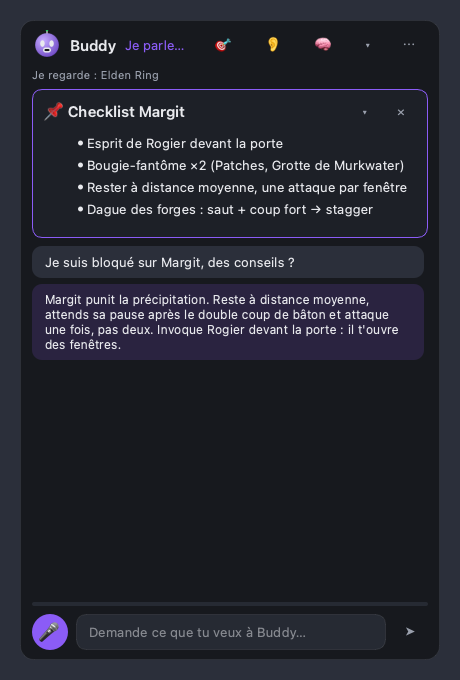
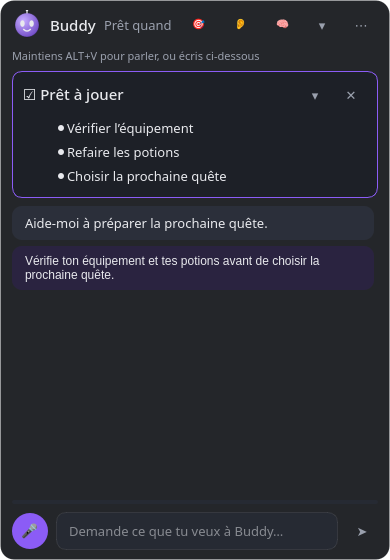
Refresh README guides and current Buddy screenshots (#10)

diff --git a/docs/make-plugin-preview.py b/docs/make-plugin-preview.py
@@ -58,3 +58,28 @@ p.drawText(75, 745, "Demo interface — no game content or private conversation 
 p.end()
 frame.save(str(Path(__file__).parents[1] / "preview.png"))
 widget.close()
+
+# README screenshots use the same current UI, with demo data only.
+assets = Path(__file__).parent / "assets"
+assets.mkdir(exist_ok=True)
+for language in ("en", "fr"):
+    panel = BuddyWidget(Translator(language), "Buddy", "ALT, V", 390, 560, mode="panel")
+    french = language == "fr"
+    panel.add_user("Aide-moi à préparer la prochaine quête." if french else "Help me prepare for the next quest.")
+    panel.add_bubble("Vérifie ton équipement et tes potions avant de choisir la prochaine quête." if french else "Check your equipment and potions before choosing the next quest.", "bro")
+    panel.show_pin("Prêt à jouer" if french else "Ready to play", "- Vérifier l’équipement\n- Refaire les potions\n- Choisir la prochaine quête" if french else "- Check equipment\n- Restock potions\n- Choose the next quest", "checklist")
+    panel.show()
+    app.processEvents()
+    panel.grab().save(str(assets / f"widget-{language}.png"))
+    panel.close()
+    orb = BuddyWidget(Translator(language), "Buddy", "ALT, V", 390, 560, mode="orb", compact_orb=False)
+    orb.set_caption("Vérifie tes potions avant de repartir." if french else "Check your potions before heading out.", fade=False)
+    orb.show()
+    app.processEvents()
+    orb.grab().save(str(assets / f"orb-{language}.png"))
+    orb.close()
+compact = BuddyWidget(Translator("en"), "Buddy", "ALT, V", 390, 560, mode="orb", compact_orb=True)
+compact.show()
+app.processEvents()
+compact.grab().save(str(assets / "compact-orb.png"))
+compact.close()

diff --git a/README.fr.md b/README.fr.md
@@ -5,10 +5,10 @@ Reste dans ton jeu, parle à Buddy. Un compagnon IA vocal pour Wayland, Hyprland
 
 <p align="center"><a href="README.md">🇬🇧 English version</a></p>
 
-<p align="center"><img src="docs/assets/orb-fr.png" alt="Widget GameBuddy" width="420"></p>
+<p align="center"><img src="preview.png" alt="GameBuddy : voix, choix de l’IA et checklist épinglée (aperçu en anglais)" width="960"></p>
 
 GameBuddy, c'est **Buddy** : un assistant IA qui vit dans un petit widget à côté de ton jeu.
-Tu maintiens une touche et tu parles ; Buddy voit la fenêtre de jeu que tu as choisie,
+Tu maintiens une touche pour parler, ou tu choisis un appui pour démarrer et un second pour arrêter ; Buddy voit la fenêtre de jeu que tu as choisie,
 cherche sur le web, répond dans ta langue, garde tes builds et checklists épinglés à
 l'écran, et se souvient des détails utiles d'une session à l'autre. Il **conseille
 seulement** : il n'injecte jamais d'entrées, ne lit pas la mémoire du jeu et ne joue pas à ta place.
@@ -18,13 +18,17 @@ local via Ollama).
 
 ## Ce qu'on voit en jeu
 
-Par défaut, Buddy n'est qu'un **orbe** : son visage animé et ses derniers mots, rien d'autre. Il
+Buddy s’adapte à ton écran : une **petite tête animée** sur laptop, ou un **orbe avec du texte** quand la place le permet. Il
 cligne des yeux au repos, pulse quand il écoute, fait tourner des points quand il réfléchit et bouge
 la bouche quand il parle. Les clics hors de l'orbe vont au jeu. Un clic sur le visage (ou une
 checklist qu'il épingle) ouvre le panneau complet : contenu épinglé, conversation, saisie texte.
 `mode = "panel"` dans `[ui]` démarre directement avec le panneau.
 
 <p align="center"><img src="docs/assets/widget-fr.png" width="360" alt="Panneau GameBuddy avec une checklist épinglée"></p>
+
+<p align="center"><img src="docs/assets/compact-orb.png" width="64" alt="Petite tête de Buddy"> &nbsp; <img src="docs/assets/orb-fr.png" width="260" alt="Orbe de Buddy avec texte"></p>
+
+Ces captures montrent l’interface actuelle avec du texte de démonstration. La petite tête et l’orbe sont présentés à leur taille logique.
 
 ## Plugin Omarchy Quattro
 
@@ -64,6 +68,49 @@ Supprimer uniquement le plugin retire son widget de barre ; l’application et s
 services restent installés. Les paquets système ne sont pas supprimés automatiquement.
 Détails : [validation et publication du plugin](docs/OMARCHY-PLUGIN.md).
 
+## Utilisation au quotidien
+
+### Taille adaptative de Buddy
+
+Par défaut, `compact_orb = "auto"` dans `[ui]` affiche une petite tête de 64 × 64
+sur les écrans dont la surface utile ne dépasse pas 1280 pixels de large ou
+800 pixels de haut. Ces dimensions sont en pixels logiques : la mise à l’échelle
+HiDPI du bureau est donc prise en compte. Sur les écrans plus grands, l’orbe
+avec texte mesure 260 × 96. Le panneau reste limité à la surface utile et la
+présentation se réadapte lors d’un changement d’écran ou de résolution.
+
+`compact_orb = true` force la petite tête ; `false` garde l’orbe avec texte.
+L’icône de Buddy dans le systray est fournie comme icône symbolique monochrome :
+les bureaux compatibles, dont Omarchy, l’adaptent à la couleur de leur barre.
+
+### Choisir l’IA depuis le systray
+
+Clic droit sur la tête de Buddy → **IA / raisonnement** : le choix actif est
+indiqué en haut. Avec Codex, le sous-menu **Modèle** reprend le catalogue local
+du CLI (s’il est disponible), et **Raisonnement** propose les niveaux déclarés
+pour le modèle sélectionné. Les changements sont sauvegardés pour les prochains
+échanges ; le menu est désactivé pendant une réponse. **Autre IA / modèle…** ouvre
+l’onglet IA des réglages, avec fournisseur, modèle personnalisé et accès API.
+Le raisonnement est proposé pour Codex et Anthropic ; les autres adaptateurs
+n’envoient pas ce paramètre.
+
+### Micro, raccourcis et délai de réponse
+
+Dans **Réglages → General**, clique dans le champ du raccourci puis presse la
+combinaison souhaitée. **Maintenir pour parler** enregistre jusqu’au relâchement ;
+**Appuyer pour démarrer / arrêter** commence au premier appui et envoie au second.
+Le raccourci d’affichage est configurable aussi. Les fragments Hyprland générés
+et gérés par GameBuddy sont actualisés automatiquement, avec détection des
+conflits et retour en arrière si la configuration est invalide. Sur les autres
+bureaux, actualise aussi les raccourcis globaux du bureau. `gamebuddy hyprland-config`
+et `sway-config` tiennent compte du mode choisi.
+
+Le délai cumule transcription, capture, appels IA/recherche et synthèse vocale.
+Les modèles Whisper déjà téléchargés sont préchargés en arrière-plan, sans
+écouter le micro ni accéder au réseau. Dans l’onglet Voice, `tiny` réduit le coût
+CPU au prix d’une précision potentiellement moindre ; `base` reste un compromis.
+`gamebuddy status` expose les dernières durées de transcription et de réponse IA.
+
 ## Fonctionnalités
 
 - **Voix d'abord** — maintiens `Alt+V` (configurable) pour parler, ou active l'écoute mains libres. Le clavier marche aussi.
@@ -94,7 +141,7 @@ recherche web passent par une enveloppe « actions » que GameBuddy exécute. Co
 quelques secondes de latence en plus, pas de streaming, et pas d'API vocale — la voix bascule
 sur des moteurs locaux (voxtype si l'outil de dictée d'Omarchy est installé, sinon faster-whisper, pour la
 transcription ; piper ou espeak-ng pour la
-synthèse), installés par défaut par `./install.sh`. `gamebuddy doctor` indique si Codex est
+synthèse). `./install.sh` installe faster-whisper et espeak-ng ; voxtype et Piper sont optionnels. `gamebuddy doctor` indique si Codex est
 installé et connecté.
 
 ## Démarrage rapide (Arch Linux / Omarchy)
@@ -147,13 +194,17 @@ language = "auto"          # fr, en, de, es, it, pt-BR, pt-PT
 assistant_name = "Buddy"
 personality = "coach"      # coach | friendly | concise
 
+[ui]
+compact_orb = "auto"      # auto | true | false
+
 [hotkeys]
+mode = "hold"             # hold | toggle
 push_to_talk = "ALT, V"    # syntaxe des binds Hyprland
 toggle_widget = "ALT, B"
 
 [llm]
 provider = "codex"         # codex (ChatGPT Plus) | anthropic | openai | ollama | openai_compatible
-model = ""                 # défaut Codex ; ex. "claude-opus-5-5" pour anthropic
+model = ""                 # défaut du fournisseur ; choix dans le systray ou les réglages IA
 effort = "low"             # anthropic / codex : réponses rapides et peu coûteuses en jeu
 
 [speech]
@@ -162,7 +213,7 @@ tts = "espeak"             # openai | piper | espeak | none
 
 [coach]
 enabled = false
-model = ""                 # modèle économique par défaut (claude-haiku-5-5 / gpt-4o-mini)
+model = ""                 # vide : modèle par défaut du fournisseur
 ```
 
 `voxtype` réutilise la pile de dictée d'Omarchy (*Install > AI > Dictation*, ou `yay -S voxtype`) :
@@ -203,8 +254,7 @@ simples tags git publiés par GitHub Actions : pas de binaire, toujours le code 
 `gamebuddy hyprland-config` imprime règles et raccourcis adaptés à ta version de Hyprland
 (`windowrulev2` historique, syntaxe `match:` ≥ 0.53, Lua ≥ 0.55). Le widget est une
 fenêtre flottante épinglée : visible sur tous les espaces de travail et au-dessus des jeux
-en fenêtré / plein écran sans bordure. Le plein écran exclusif n'est pas garanti, comme
-dans l'original.
+en fenêtré / plein écran sans bordure. La prise en charge du plein écran exclusif dépend du compositeur et du jeu.
 
 ## CLI
 
@@ -228,47 +278,12 @@ dans l'original.
 - Les clés API restent dans `config.toml` (mode 600) ou dans ton environnement.
 - Pas de télémétrie, pas de compte, pas de serveur à nous.
 
+## État du projet
+
+Version actuelle : **0.3.1**. La validation de structure et de compatibilité Quattro du marketplace Omarchy est passée. Un mainteneur a approuvé la révision `b73930d` après revue des capacités. Le moteur nécessite une installation manuelle : [suivre la demande et la publication](https://github.com/omacom/omarchy-plugin-marketplace/issues/13577).
+
+La capture par région peut montrer une fenêtre qui recouvre le jeu. Le mode coach reste expérimental. Le son et les compositeurs réels nécessitent une session de bureau pour être vérifiés.
+
 ## Licence
 
 MIT — voir [LICENSE](LICENSE). Projet communautaire indépendant, sans affiliation avec un éditeur de jeux ou un fournisseur d'IA.
-
-### Taille adaptative de Buddy
-
-Par défaut, `compact_orb = "auto"` dans `[ui]` affiche une petite tête de 64 × 64
-sur les écrans dont la surface utile ne dépasse pas 1280 pixels de large ou
-800 pixels de haut. Ces dimensions sont en pixels logiques : la mise à l’échelle
-HiDPI du bureau est donc prise en compte. Sur les écrans plus grands, l’orbe
-avec texte mesure 260 × 96. Le panneau reste limité à la surface utile et la
-présentation se réadapte lors d’un changement d’écran ou de résolution.
-
-`compact_orb = true` force la petite tête ; `false` garde l’orbe avec texte.
-L’icône de Buddy dans le systray est fournie comme icône symbolique monochrome :
-les bureaux compatibles, dont Omarchy, l’adaptent à la couleur de leur barre.
-
-### Choisir l’IA depuis le systray
-
-Clic droit sur la tête de Buddy → **IA / raisonnement** : le choix actif est
-indiqué en haut. Avec Codex, le sous-menu **Modèle** reprend le catalogue local
-du CLI (s’il est disponible), et **Raisonnement** propose les niveaux déclarés
-pour le modèle sélectionné. Les changements sont sauvegardés pour les prochains
-échanges ; le menu est désactivé pendant une réponse. **Autre IA / modèle…** ouvre
-l’onglet IA des réglages, avec fournisseur, modèle personnalisé et accès API.
-Le raisonnement est proposé pour Codex et Anthropic ; les autres adaptateurs
-n’envoient pas ce paramètre.
-
-### Micro, raccourcis et délai de réponse
-
-Dans **Réglages → General**, clique dans le champ du raccourci puis presse la
-combinaison souhaitée. **Maintenir pour parler** enregistre jusqu’au relâchement ;
-**Appuyer pour démarrer / arrêter** commence au premier appui et envoie au second.
-Le raccourci d’affichage est configurable aussi. Les fragments Hyprland générés
-et gérés par GameBuddy sont actualisés automatiquement, avec détection des
-conflits et retour en arrière si la configuration est invalide. Sur les autres
-bureaux, actualise aussi les raccourcis globaux du bureau. `gamebuddy hyprland-config`
-et `sway-config` tiennent compte du mode choisi.
-
-Le délai cumule transcription, capture, appels IA/recherche et synthèse vocale.
-Les modèles Whisper déjà téléchargés sont préchargés en arrière-plan, sans
-écouter le micro ni accéder au réseau. Dans l’onglet Voice, `tiny` réduit le coût
-CPU au prix d’une précision potentiellement moindre ; `base` reste un compromis.
-`gamebuddy status` expose les dernières durées de transcription et de réponse IA.

diff --git a/README.md b/README.md
@@ -9,10 +9,10 @@ Stay in your game, talk to Buddy. A voice-first AI companion widget for Wayland,
   <a href="README.fr.md">🇫🇷 Version française</a>
 </p>
 
-<p align="center"><img src="docs/assets/orb-fr.png" alt="GameBuddy widget" width="420"></p>
+<p align="center"><img src="preview.png" alt="GameBuddy: voice controls, AI selection and a pinned checklist" width="960"></p>
 
 GameBuddy is an AI companion named **Buddy** that lives in one small widget next to your game.
-Hold a key and talk; Buddy can see the game window you selected, search the web,
+Hold a key to talk, or choose press-to-start/press-again-to-stop; Buddy can see the game window you selected, search the web,
 answer in your language, keep builds and checklists pinned on screen, and remember
 useful details between sessions. It **advises only**: it never injects input,
 reads game memory, or plays for you.
@@ -22,13 +22,17 @@ local model through Ollama).
 
 ## What you see in game
 
-By default Buddy is just an **orb**: his animated face and his last words, nothing else. He blinks
+Buddy adapts to your screen: a **small animated head** on a laptop, or an **orb with a caption** when there is more room. He blinks
 while idle, pulses while listening, spins dots while thinking and moves his mouth while speaking.
 Clicks outside the orb go to the game. Click the face (or let him pin a checklist) and the full
 panel opens: pinned content, transcript, text input. Set `mode = "panel"` under `[ui]` to start
 with the panel instead.
 
-<p align="center"><img src="docs/assets/widget-fr.png" width="360" alt="GameBuddy panel with a pinned checklist"></p>
+<p align="center"><img src="docs/assets/widget-en.png" width="360" alt="Current GameBuddy panel with a demo checklist"></p>
+
+<p align="center"><img src="docs/assets/compact-orb.png" width="64" alt="Compact Buddy head"> &nbsp; <img src="docs/assets/orb-en.png" width="260" alt="Buddy orb with a caption"></p>
+
+Screenshots show the current interface with demo text. The compact head and captioned orb are shown at their logical sizes.
 
 ## Omarchy Quattro plugin
 
@@ -99,6 +103,42 @@ The plugin and its own preview are MIT licensed. The preview uses demo UI text,
 not a game screenshot. See [plugin validation and publishing](docs/OMARCHY-PLUGIN.md)
 for the reviewed checks and listing metadata.
 
+## Everyday controls
+
+### Adaptive Buddy size
+
+`[ui] compact_orb = "auto"` (the default) uses a 64 × 64 head when the usable
+screen is at most 1280 logical pixels wide or 800 high, accounting for desktop
+HiDPI scaling. Larger screens use the 260 × 96 orb with a caption. The panel
+fits within the usable screen, and the layout updates when its screen or
+resolution changes. Set `compact_orb = true` or `false` to override the choice.
+The bundled monochrome symbolic tray icon follows the bar foreground on hosts
+that support symbolic recoloring, including Omarchy.
+
+### Choose AI from the system tray
+
+Right-click Buddy → **AI / reasoning** to see the current selection. For Codex,
+**Model** uses the CLI's local catalogue when available; **Reasoning** offers the
+selected model's advertised levels. Choices persist for subsequent exchanges;
+the menu is disabled while a reply is running. **Other provider / model…** opens
+the AI settings tab for provider, custom model and API access configuration.
+Reasoning controls are offered for Codex and Anthropic; other adapters do not
+send that parameter.
+
+### Talk mode, shortcuts and latency
+
+Settings → General lets you capture the talk and visibility shortcuts and choose
+hold-to-talk or press-to-start/press-again-to-stop. GameBuddy updates its managed
+Hyprland shortcut blocks with conflict checking and rollback on invalid config.
+For other desktops, also update the global shortcuts in the desktop settings.
+Generated Hyprland/sway bindings respect the chosen talk mode.
+
+Voice latency includes transcription, capture, AI/search calls and speech
+synthesis. Cached Whisper models are warmed in the background without microphone
+capture or network access. Voice settings offer `tiny` for lower CPU cost with a
+possible accuracy tradeoff, or `base` for balance. `gamebuddy status` reports the
+last transcription and assistant response durations.
+
 ## Features
 
 - **Voice-first** — hold `Alt+V` (configurable) to talk, or turn on hands-free listening. Typing works too.
@@ -128,7 +168,7 @@ sandbox, no session files); pinning, memory and web search still work through an
 "actions" envelope that GameBuddy executes. Trade-offs: a few seconds of extra latency per
 answer, no token streaming, and no speech API — voice falls back to local engines
 (voxtype if Omarchy's dictation tool is installed, else faster-whisper, for transcription;
-piper or espeak-ng for speech), which `./install.sh` installs by default. `gamebuddy doctor` tells you whether Codex is installed and signed in.
+piper or espeak-ng for speech), with faster-whisper and espeak-ng installed by `./install.sh`; voxtype and Piper are optional. `gamebuddy doctor` tells you whether Codex is installed and signed in.
 
 ## Quick start (Arch Linux / Omarchy)
 
@@ -195,13 +235,17 @@ language = "auto"          # fr, en, de, es, it, pt-BR, pt-PT
 assistant_name = "Buddy"
 personality = "coach"      # coach | friendly | concise
 
+[ui]
+compact_orb = "auto"      # auto | true | false
+
 [hotkeys]
+mode = "hold"             # hold | toggle
 push_to_talk = "ALT, V"    # Hyprland bind syntax
 toggle_widget = "ALT, B"
 
 [llm]
 provider = "codex"         # codex (ChatGPT Plus) | anthropic | openai | ollama | openai_compatible
-model = ""                 # codex default; e.g. "claude-opus-5-5" for anthropic
+model = ""                 # provider default; choose a model in the tray or AI settings
 effort = "low"             # anthropic / codex: low keeps answers fast and cheap mid-game
 api_key = ""               # or ANTHROPIC_API_KEY / OPENAI_API_KEY in the environment
 
@@ -213,7 +257,7 @@ speak_replies = true
 [coach]
 enabled = false
 interval_s = 4.0
-model = ""                 # cheap default per provider (claude-haiku-5-5 / gpt-4o-mini)
+model = ""                 # leave empty for the provider-specific default
 ```
 
 `voxtype` reuses Omarchy's dictation stack (*Install > AI > Dictation*, or `yay -S voxtype`):
@@ -253,8 +297,7 @@ you always run the source you can read.
 `gamebuddy hyprland-config` prints the rules and binds for your Hyprland version
 (legacy `windowrulev2`, the 0.53+ `match:` syntax, or Lua for 0.55+). The widget
 is a floating, pinned window, so it stays visible across workspaces and above
-windowed / borderless-fullscreen games. Exclusive fullscreen is not guaranteed,
-as with the original.
+windowed / borderless-fullscreen games. Exclusive fullscreen support depends on the compositor and game.
 
 ```
 bind  = ALT, V, exec, gamebuddy ptt start
@@ -303,7 +346,9 @@ compositor behaviour need a desktop session.
 
 ## Status
 
-0.1.0 — first public version. Known limits:
+Current version: **0.3.1**. The Omarchy marketplace submission passed structural and Quattro validation, and a maintainer approved revision `b73930d` after capability review. The engine requires manual setup. Track the current [submission and listing status](https://github.com/omacom/omarchy-plugin-marketplace/issues/13577).
+
+Known limits:
 
 - Per-window capture uses region screenshots; a window hidden behind another will show what is on top. A `hyprland-toplevel-export` backend (what OmaPiP uses) is a planned improvement.
 - Global hotkeys on Wayland go through the compositor (Hyprland binds). An X11 in-process listener is available with `pip install 'gamebuddy[x11]'` and `hotkeys.x11_listener = true`.
@@ -312,37 +357,3 @@ compositor behaviour need a desktop session.
 ## License
 
 MIT — see [LICENSE](LICENSE). Independent community project, not affiliated with any game publisher or AI vendor.
-
-### Adaptive Buddy size
-
-`[ui] compact_orb = "auto"` (the default) uses a 64 × 64 head when the usable
-screen is at most 1280 logical pixels wide or 800 high, accounting for desktop
-HiDPI scaling. Larger screens use the 260 × 96 orb with a caption. The panel
-fits within the usable screen, and the layout updates when its screen or
-resolution changes. Set `compact_orb = true` or `false` to override the choice.
-The bundled monochrome symbolic tray icon follows the bar foreground on hosts
-that support symbolic recoloring, including Omarchy.
-
-### Choose AI from the system tray
-
-Right-click Buddy → **AI / reasoning** to see the current selection. For Codex,
-**Model** uses the CLI's local catalogue when available; **Reasoning** offers the
-selected model's advertised levels. Choices persist for subsequent exchanges;
-the menu is disabled while a reply is running. **Other provider / model…** opens
-the AI settings tab for provider, custom model and API access configuration.
-Reasoning controls are offered for Codex and Anthropic; other adapters do not
-send that parameter.
-
-### Talk mode, shortcuts and latency
-
-Settings → General lets you capture the talk and visibility shortcuts and choose
-hold-to-talk or press-to-start/press-again-to-stop. GameBuddy updates its managed
-Hyprland shortcut blocks with conflict checking and rollback on invalid config.
-For other desktops, also update the global shortcuts in the desktop settings.
-Generated Hyprland/sway bindings respect the chosen talk mode.
-
-Voice latency includes transcription, capture, AI/search calls and speech
-synthesis. Cached Whisper models are warmed in the background without microphone
-capture or network access. Voice settings offer `tiny` for lower CPU cost with a
-possible accuracy tradeoff, or `base` for balance. `gamebuddy status` reports the
-last transcription and assistant response durations.
